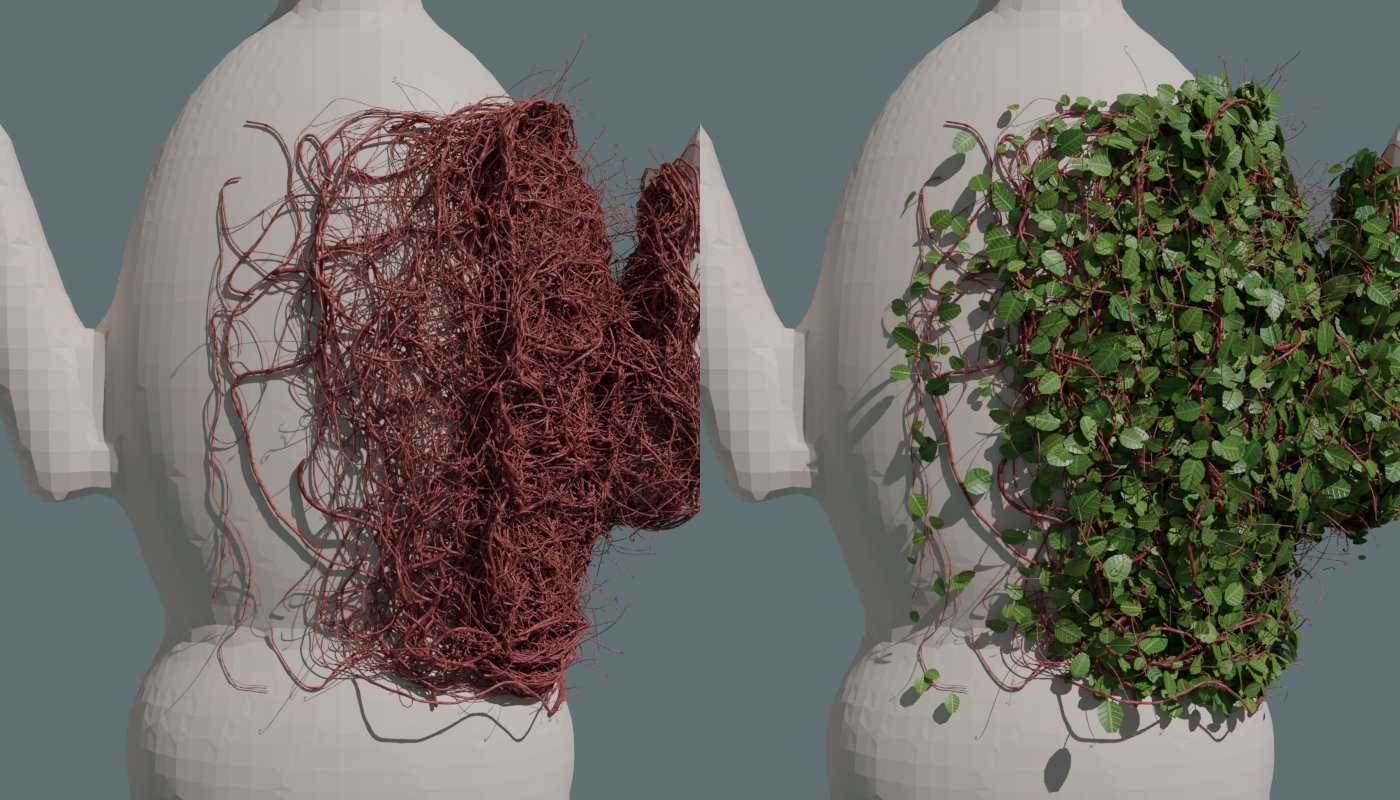
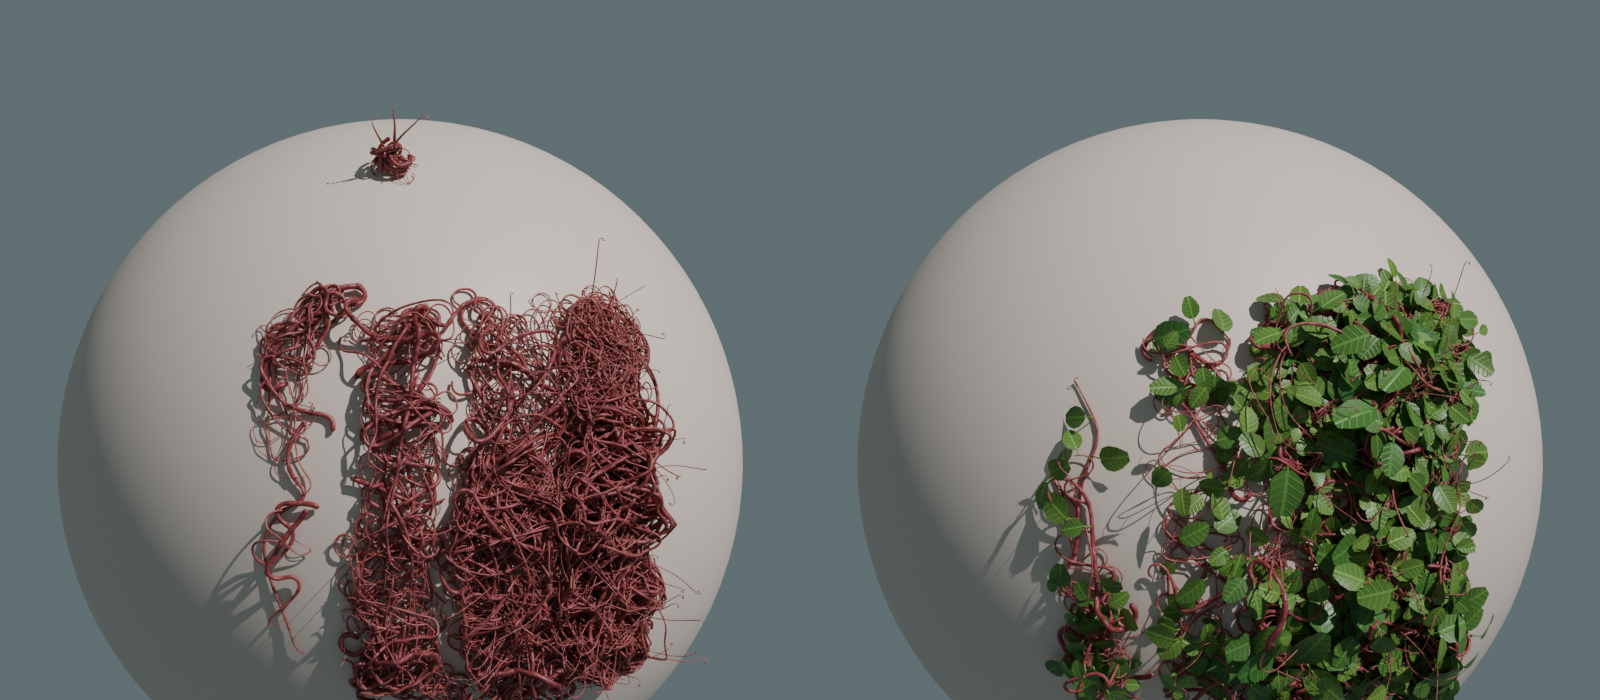
Vine Grow 1.10: vines fill the painted area evenly instead of its border
At the edge of the paint a vine used to slide along it, so stems piled
up on the border (5x the centre in a 5 cm spot) and circled small
patches. Now each vine keeps to the value painted where it started and
makes a U-turn back inside when the paint ahead leaves that level;
in small patches vines are shorter and more numerous so the amount per
area matches the value; aerial tips only grow from well painted spots.
Triangles are put in a fixed order so a scatter is repeatable.

Claude-Session: https://claude.ai/code/session_01KQp3gkt41MH9DD5UKXXHAb

diff --git a/blender/vine_grow/vine_grow/tangle.py b/blender/vine_grow/vine_grow/tangle.py
@@ -43,6 +43,14 @@ class _FieldBase:
             sv += w * self.dens[i]
         return sv / sw if sw else 0.0
 
+    def raw_at(self, p):
+        """The painted value (as density) of the nearest point, without the blending."""
+        raw = getattr(self, "raw", None)
+        if raw is None:
+            return self.at(p)
+        _co, i, d = self.kd.find(p)
+        return raw[i] if d is not None and d <= self.spacing * 1.8 else 0.0
+
     def dist_at(self, p):
         _co, i, _d = self.kd.find(p)
         return self.dist[i]
@@ -88,6 +96,7 @@ class PointField(_FieldBase):
         # painted 0..100 -> density. Squared so the colours read clearly: 100 (orange) is the full
         # overall density, 50 (green) a quarter, 25 (blue) only a few vines, 0 (purple) none.
         vals = [(max(0.0, min(v, 100.0)) / 100.0) ** 2 * P.density for v in ps.val]
+        self.raw = list(vals)  # the painted values themselves (each vine keeps to its painted level)
         for i, nd in enumerate(self.nodes):
             sw = sv = 0.0
             for _co, j, d in self.kd.find_range(nd.co, blend * 2.0):
@@ -153,6 +162,11 @@ def _tangent(d, n):
     if t.length_squared < 1e-12:
         t = n.orthogonal()
     return t.normalized()
+
+
+def _same_level(v, home):
+    """True when density v is close enough to the level `home` a vine started at."""
+    return home * 0.75 <= v <= home * 1.4
 
 
 def _smooth01(x):
@@ -222,29 +236,31 @@ class Grower:
         height = h0
         next_node = self.internode * rng.uniform(0.3, 1.0)
         swell = 0
+        home = self.field.raw_at(ps)  # the painted level where this vine started: it keeps to that level
         steps = max(3, int(length / step))
-        home = self.field.at(ps)  # the density where this vine started: it keeps to that level
         outside = 0
+        target = None  # direction it is turning back to after reaching the edge of the paint
         for j in range(steps):
             if j == 6 and parent_vid is not None:
                 skip.discard(parent_vid)
             u = j / steps
             nz = noise.noise(seed + Vector((s / self.curl_len, 0.0, 0.0)))
             ang = (curl * 0.25 + nz * P.curl * 1.6) * step / self.curl_len * math.tau * 0.25
-            # stay where it was painted: turn away from where the density falls below the level the vine
-            # started at (no turning inside an evenly painted area, so the vines wander freely there)
+            # Stay at the painted level it started in. Where the density ahead leaves that level (thinner
+            # paint, or much denser paint) it makes a U-turn back instead of following the edge, so the
+            # stems spread over the whole area painted with that value and every value keeps its amount.
             if home > 0.0:
                 here = self.field.at(ps)
-                probe = step * 4.0
-                ahead = self.field.at(ps + d * probe)
-                if ahead < home * 0.75:
-                    side = n.cross(d)
-                    if side.length_squared > 1e-12:
-                        side.normalize()
-                        dl = self.field.at(ps + (d + side).normalized() * probe)
-                        dr = self.field.at(ps + (d - side).normalized() * probe)
-                        turn = 1.2 * min(1.0, 1.0 - ahead / home)
-                        ang += turn if dl >= dr else -turn
+                if target is None and not _same_level(self.field.at(ps + d * step * 4.0), home):
+                    target = self._turn_back(ps, n, d, home)
+                    if target is None:
+                        break  # nowhere to go inside the paint
+                if target is not None:
+                    t = _tangent(target, n)
+                    turn = math.atan2(n.dot(d.cross(t)), max(-1.0, min(1.0, d.dot(t))))
+                    if abs(turn) < 0.15:
+                        target = None
+                    ang = max(-0.45, min(0.45, turn))
                 if here < home * 0.5:
                     outside += 3 if here < home * 0.05 else 1  # unpainted ground: give up quickly
                 else:
@@ -293,19 +309,53 @@ class Grower:
                 if rng.random() < P.tendril_chance * 0.4:
                     self.tendril_spots.append((idx, r, k))
         if cur >= 0 and tree.parent[cur] >= 0:
-            if rng.random() < P.fine_aerial:
+            # shoots into the air only from well painted spots, so they do not stray from the paint
+            dense = home >= self.field.max * 0.5 and self.field.at(ps) >= home * 0.75
+            if dense and rng.random() < P.fine_aerial:
                 cur = self.aerial(cur, vid, r_tip)
             if cur >= 0 and rng.random() < 0.5:
                 self.tendril_spots.append((cur, r_tip, k))
 
     # ------------------------------------------------------------------
+    def _extent(self, p, n, home):
+        """Rough size of the painted patch around p: mean distance to its edge in 6 directions."""
+        probe = max(self.step * 4.0, self.field.spacing)
+        t1 = n.orthogonal().normalized()
+        t2 = n.cross(t1)
+        total = 0.0
+        for k in range(6):
+            a = math.tau * k / 6
+            d = t1 * math.cos(a) + t2 * math.sin(a)
+            dist = 0.0
+            while dist < self.mean_len:
+                dist += probe
+                if not _same_level(self.field.at(p + d * dist), home):
+                    break
+            total += dist
+        return total / 6.0
+
+    def _turn_back(self, p, n, d, home):
+        """A direction back into the paint, preferably away from the edge it just met."""
+        probe = self.step * 6.0
+        side = n.cross(d)
+        good = []
+        for k in range(12):
+            a = math.tau * k / 12
+            v = d * math.cos(a) + side * math.sin(a)
+            if _same_level(self.field.at(p + v * probe), home):
+                good.append(v)
+        if not good:
+            return None
+        back = [v for v in good if v.dot(d) < 0.0] or good
+        return self.rng.choice(back)
+
     def aerial(self, cur, vid, r_end):
         """The tip leaves the body and reaches out into the air."""
         P, rng, tree = self.P, self.rng, self.tree
         step = self.step * 1.3
         n = tree.normal[cur]
         d = (tree.dir[cur] + n * rng.uniform(0.6, 1.6) + UP * P.aerial_lift * 0.4).normalized()
-        length = self.mean_len * rng.uniform(0.08, 0.22)
+        length = self.mean_len * rng.uniform(0.05, 0.15)
         steps = max(3, int(length / step))
         seed = Vector((rng.uniform(0, 500), rng.uniform(0, 500), rng.uniform(0, 500)))
         r0 = self.radii[cur]
@@ -387,10 +437,31 @@ class Grower:
             hit = self.sampler.nearest(nd.co + colonize._rand_unit(rng) * field.spacing * 0.5)
             if hit is None:
                 continue
-            d0 = _tangent(colonize._rand_unit(rng), hit.normal)
-            r0 = self.r_lo + (self.r_hi - self.r_lo) * (rng.random() ** 1.3)
-            self.queue.append((hit, d0, -1, self.mean_len * rng.lognormvariate(0.0, 0.35), r0,
-                               self.clear + r0, k))
+            length = self.mean_len * rng.lognormvariate(0.0, 0.35)
+            home = field.raw_at(hit.loc)
+            if home <= 0.0:
+                continue  # the soft edge of the paint, on unpainted ground: nothing grows from there
+            starts = [hit]
+            if home > 0.0:
+                # In a small painted patch a long vine would only go round and round: fit its length to
+                # the patch, and grow more (shorter) vines there so the amount of stem stays the same.
+                ext = self._extent(hit.loc, hit.normal, home)
+                fitted = min(length, ext * 4.0)
+                # shorter vines also carry fewer and shorter side branches, hence the power
+                extra = (length / fitted) ** 1.7 - 1.0
+                n_extra = int(extra) + (1 if rng.random() < extra - int(extra) else 0)
+                t1 = hit.normal.orthogonal().normalized()
+                t2 = hit.normal.cross(t1)
+                for _e in range(n_extra):
+                    a, rr = rng.uniform(0.0, math.tau), ext * 0.8 * math.sqrt(rng.random())
+                    h2 = self.sampler.nearest(hit.loc + (t1 * math.cos(a) + t2 * math.sin(a)) * rr)
+                    if h2 is not None and _same_level(field.raw_at(h2.loc), home):
+                        starts.append(h2)
+                length = fitted
+            for h in starts:
+                d0 = _tangent(colonize._rand_unit(rng), h.normal)
+                r0 = self.r_lo + (self.r_hi - self.r_lo) * (rng.random() ** 1.3)
+                self.queue.append((h, d0, -1, length, r0, self.clear + r0, k))
         while self.queue and len(self.tree.pos) < P.max_nodes:
             self.vine(*self.queue.pop(0))
         self.tendrils()

diff --git a/blender/vine_grow/vine_grow/sampler.py b/blender/vine_grow/vine_grow/sampler.py
@@ -37,7 +37,18 @@ class BodySampler:
         self.co = [mw @ v.co for v in mesh.vertices]
         self.vnormals = [(nmat @ v.normal).normalized() for v in mesh.vertices]
         mesh.calc_loop_triangles()
-        self.tris = [tuple(t.vertices) for t in mesh.loop_triangles]
+        # Blender may hand out the triangles in a different order each run: put them in a fixed order
+        # (each rotated to start at its smallest index, winding kept) so the same seed gives the same result.
+        tris = []
+        for t in mesh.loop_triangles:
+            a, b, c = t.vertices
+            if b < a and b < c:
+                a, b, c = b, c, a
+            elif c < a and c < b:
+                a, b, c = c, a, b
+            tris.append((a, b, c))
+        tris.sort()
+        self.tris = tris
 
         # Per-vertex weights (only bone groups when bone names are known). Modifiers such as
         # Subdivision carry the vertex groups over; when one does not, take the nearest original vertex.

diff --git a/blender/vine_grow/vine_grow/__init__.py b/blender/vine_grow/vine_grow/__init__.py
@@ -1,7 +1,7 @@
 bl_info = {
     "name": "Vine Grow (つる植物ジェネレータ)",
     "author": "A_life",
-    "version": (1, 9, 2),
+    "version": (1, 10, 0),
     "blender": (3, 6, 0),
     "location": "3Dビューポート > サイドバー(N) > Vine Grow",
     "description": "体に打った点に密度をペイントして、体に絡みつき少し空間にも広がる、つる植物（茎・葉）を生成する。アニメーションに追従",

diff --git a/blender/vine_grow/README.md b/blender/vine_grow/README.md
@@ -7,7 +7,7 @@
 
 ![paint](preview_paint.png) ![result](preview_paint_result.png)
 
-胸を縦の帯に塗り分けた例（左から 0 / 25 / 50 / 75 / 100、全体の密度 50。左: つるだけ、右: 葉あり）。オレンジは茂り、青はほんの少し、紫には生えない:
+球に縦の帯を塗り分けた例（左から 0 / 25 / 50 / 75 / 100、上の小さい円は 100、全体の密度 50。左: つるだけ、右: 葉あり）。オレンジは茂り、青はほんの少し、紫には生えない。茎は縁に溜まらず、塗った所に留まる:
 
 ![bands](preview_bands.png)
 
@@ -43,11 +43,12 @@
 ## 仕組み
 1. 塗った値（0〜100）を (値/100)² ×「全体の密度」にして、「なじませる距離」で隣の点となめらかにつなぐ（体の裏表は混ぜない）。粗密は点の塗り分けで付ける
 2. 密度の高い所ほど多く、つるの根元をランダムに置く。向きもランダムなので、流れの方向はない
-3. 1本のつるは根元が太く先が細い1本の茎で、なめらかに曲がりくねりながら体を這う。進む先の密度が、そのつるが生えた所の密度より下がると曲がって戻り、薄い所へ迷い込んだら止まるので、つるは塗った値の所に留まり、塗り分けどおりに茂る（同じ値で塗った中では自由にうねる）
-4. 茎は所々で体から **浮き上がってアーチ状に戻り**、他の茎に出会うとその **上を乗り越える** ので、絡まりに奥行きができる
-5. 一定間隔の **節**（少しふくらむ）から脇枝と巻きひげが出る。巻きひげは近くに茎があれば **その茎に巻き付き**、なければ自分で巻く
-6. 一部の先端は体を離れて **空中へ伸び**、先は巻く。成長アニメーションでは、すべてのつるが根元から一斉に伸びる
-7. 生成はレストポーズで行い、ボーンウェイトを転写してアーマチュアで追従させる
+3. 1本のつるは根元が太く先が細い1本の茎で、なめらかに曲がりくねりながら体を這う。各つるは生えた所に塗られた値を覚えていて、進む先がその値から外れる（薄くなる・ずっと濃くなる）と、縁に沿わずに U ターンして内側へ戻る。だから茎が縁に溜まらず、塗った所全体に塗った値どおりの量で広がる（同じ値で塗った中では自由にうねる）
+4. 塗った所が小さいときは、そこを何周もしないようにつるを短くし、その分本数を増やすので、狭く塗っても広く塗っても同じ値なら同じ密度になる
+5. 茎は所々で体から **浮き上がってアーチ状に戻り**、他の茎に出会うとその **上を乗り越える** ので、絡まりに奥行きができる
+6. 一定間隔の **節**（少しふくらむ）から脇枝と巻きひげが出る。巻きひげは近くに茎があれば **その茎に巻き付き**、なければ自分で巻く
+7. 値の高い所の一部の先端は体を離れて **空中へ伸び**、先は巻く（値の低い所からは伸ばさない）。成長アニメーションでは、すべてのつるが根元から一斉に伸びる
+8. 生成はレストポーズで行い、ボーンウェイトを転写してアーマチュアで追従させる
 
 ## 葉
 - 茎に沿って「葉の間隔」ごとに、左右交互に葉を付ける（巻きひげには付けない）
